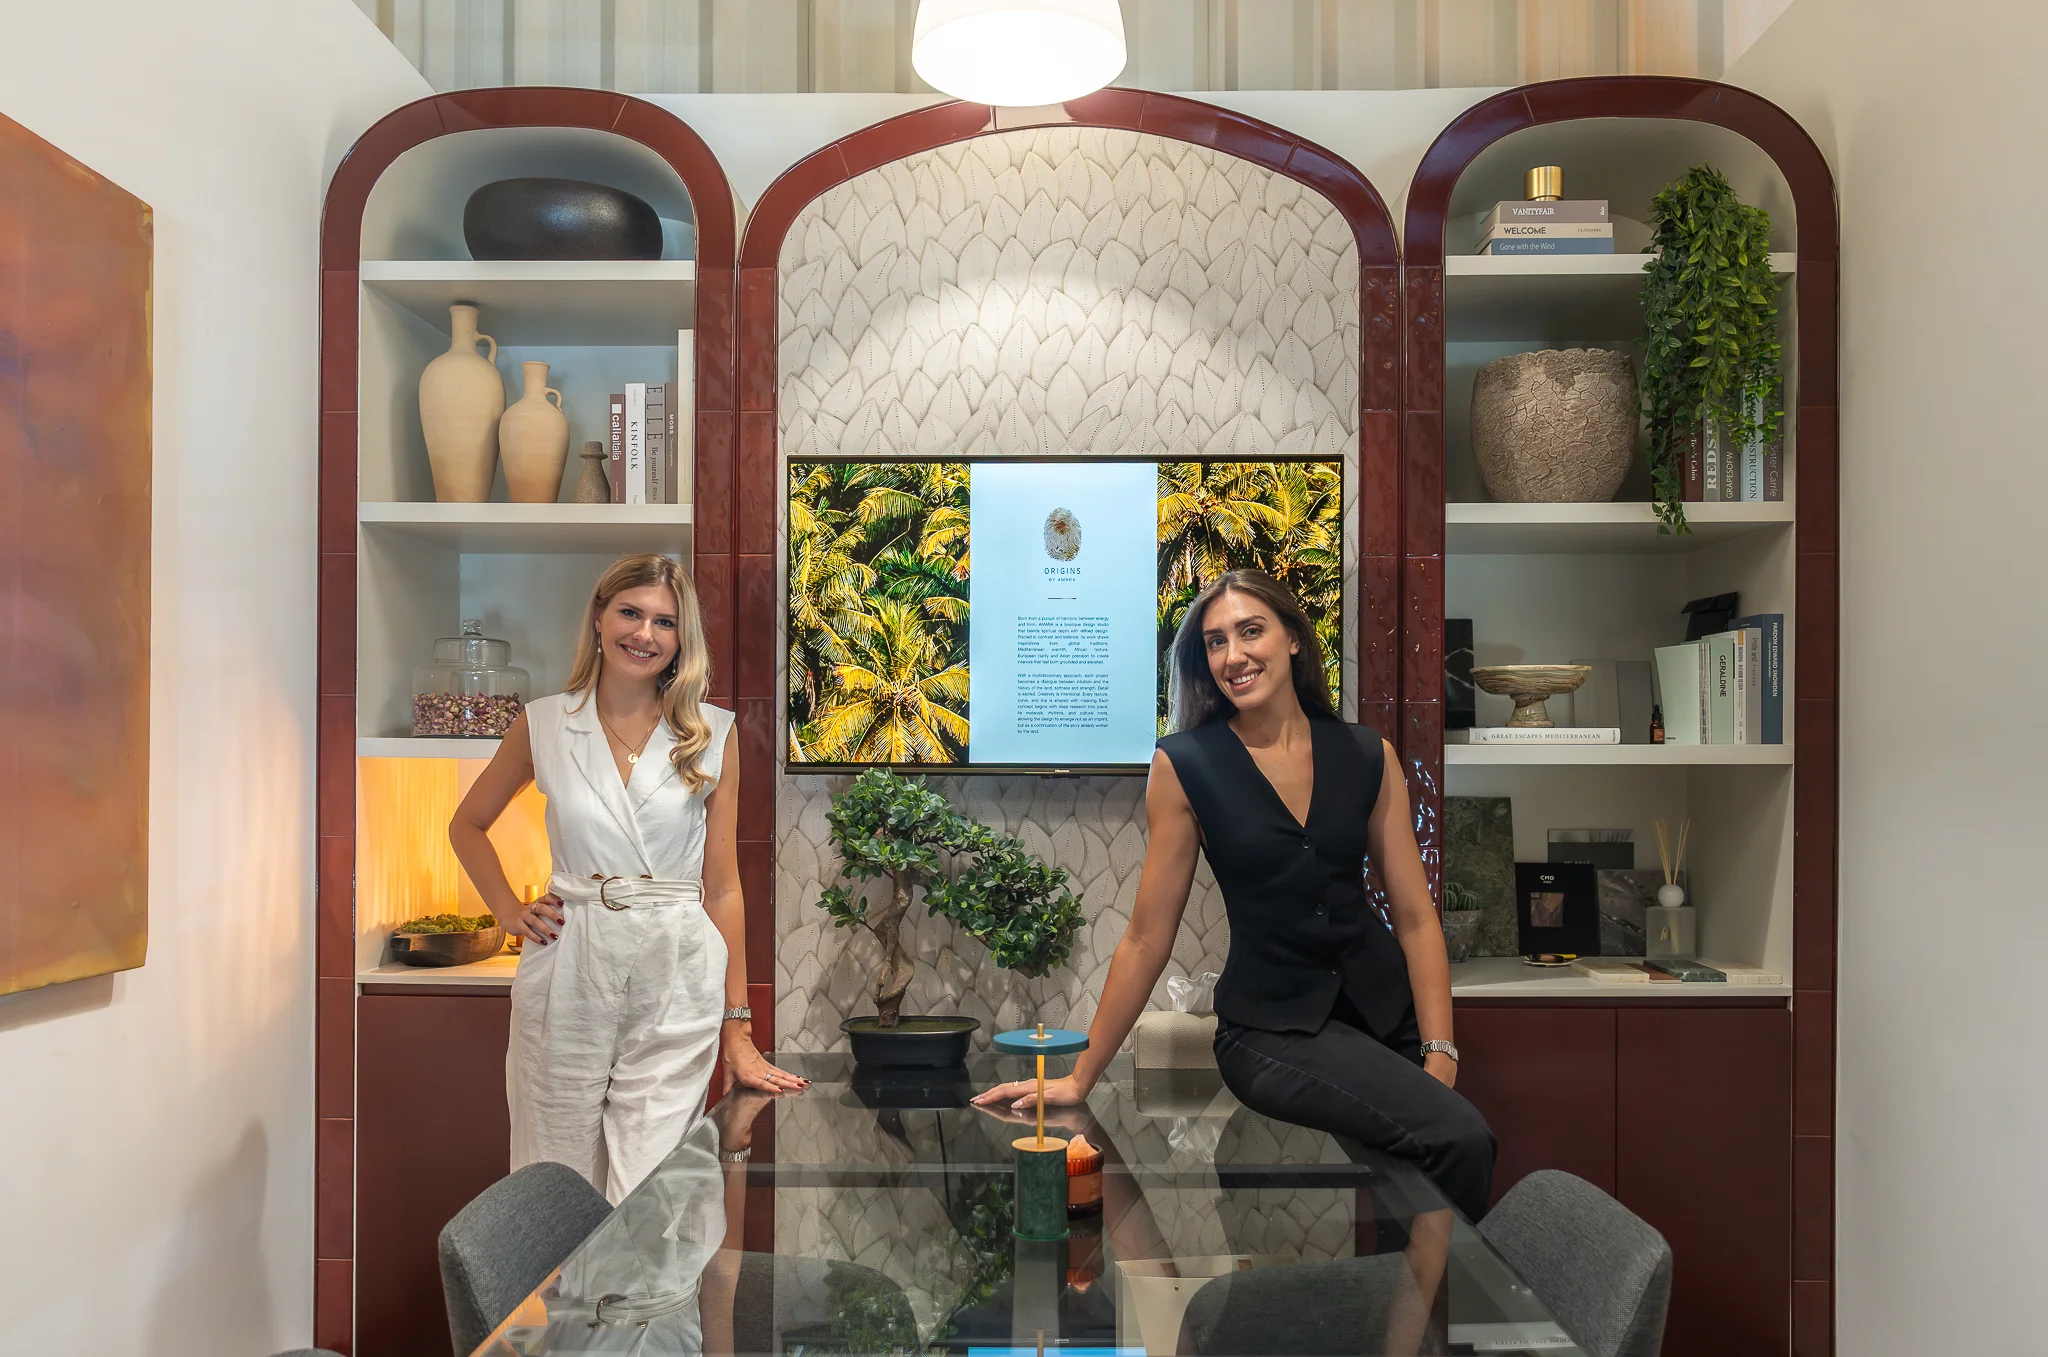
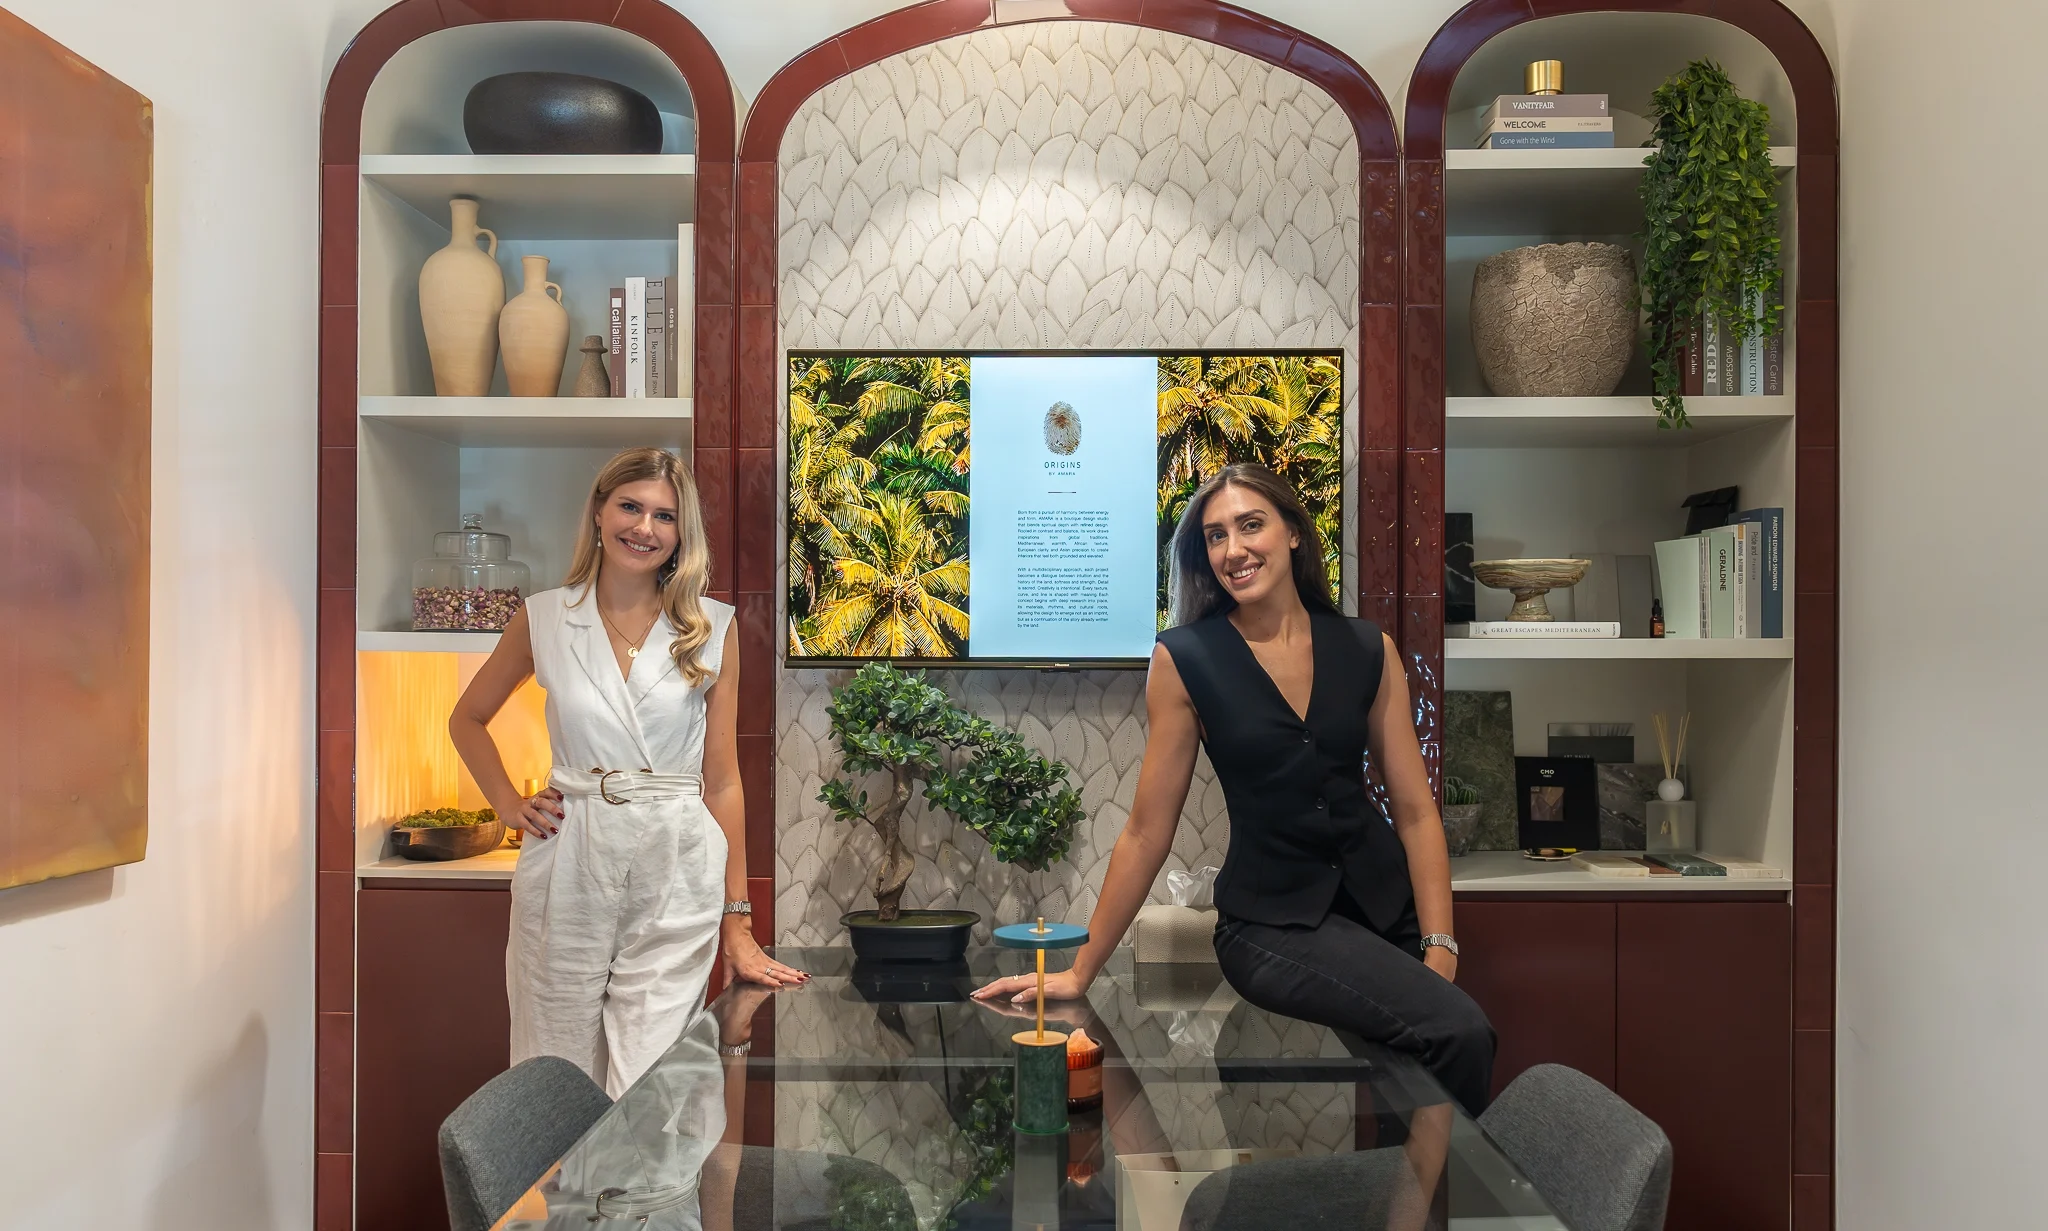
Update showroom image to remove lamp and adjust display
Replaced `Showroom_Portrait_Amara_Interior_Design_Procurement_Miami_Dubai.webp` with a new version cropped to remove the lamp and removed the `object-position` override from `ExpandingImage.tsx`.

Replit-Commit-Author: Agent
Replit-Commit-Session-Id: a1c1f4c3-4297-4193-892c-52422f7b45fd
Replit-Commit-Checkpoint-Type: full_checkpoint
Replit-Commit-Event-Id: 82cc0c64-6945-4f78-9fd7-b89711c054ae
Replit-Commit-Screenshot-Url: https://storage.googleapis.com/screenshot-production-us-central1/537c5dd7-4aa7-46be-9f22-af8254a38350/a1c1f4c3-4297-4193-892c-52422f7b45fd/kOdN3qZ
Replit-Helium-Checkpoint-Created: true

diff --git a/components/common/ExpandingImage.tsx b/components/common/ExpandingImage.tsx
@@ -125,7 +125,7 @@ export default function ExpandingImage({ quote, linkTo = "/design" }: ExpandingI
           alt="Elenents"
           width={1272}
           height={704}
-          className="h-full w-full object-cover object-[center_65%]"
+          className="h-full w-full object-cover"
         />
         <div className="absolute bottom-[42px] left-[50%] z-[2] flex translate-x-[-50%] transform flex-col items-center gap-[9px] max-sm:bottom-[25px] max-sm:gap-0">
           <p className="font-serif text-[28px] leading-[36px] tracking-[-0.8px] whitespace-nowrap text-[#F6EFE5] italic max-sm:text-[22px] max-sm:tracking-[-0.6px]">
